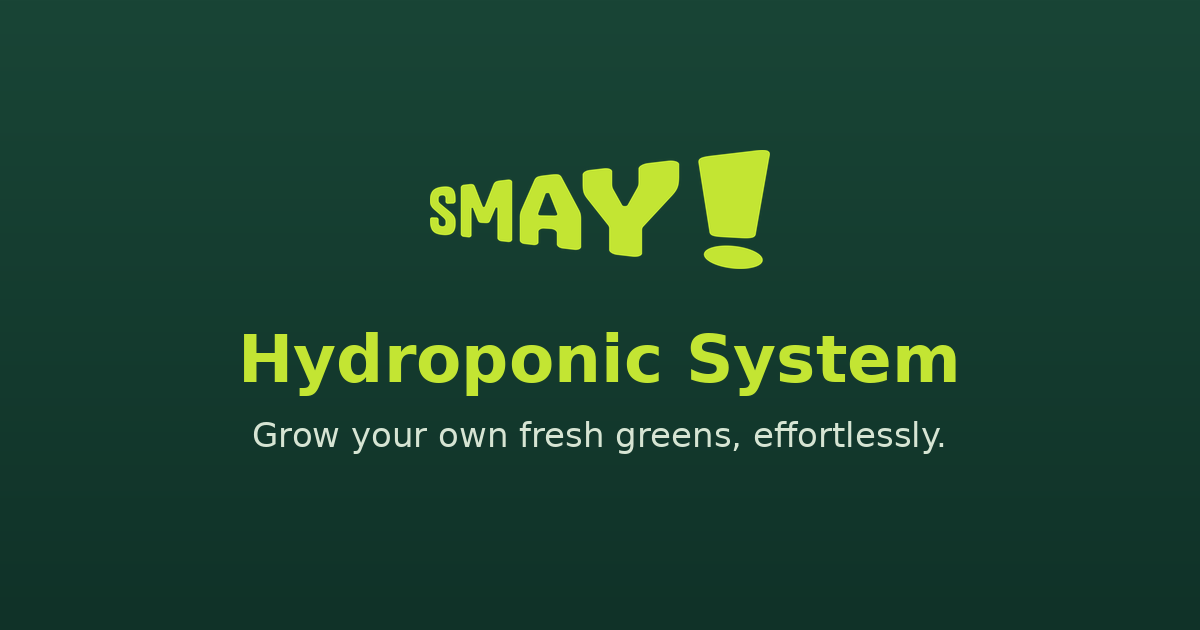
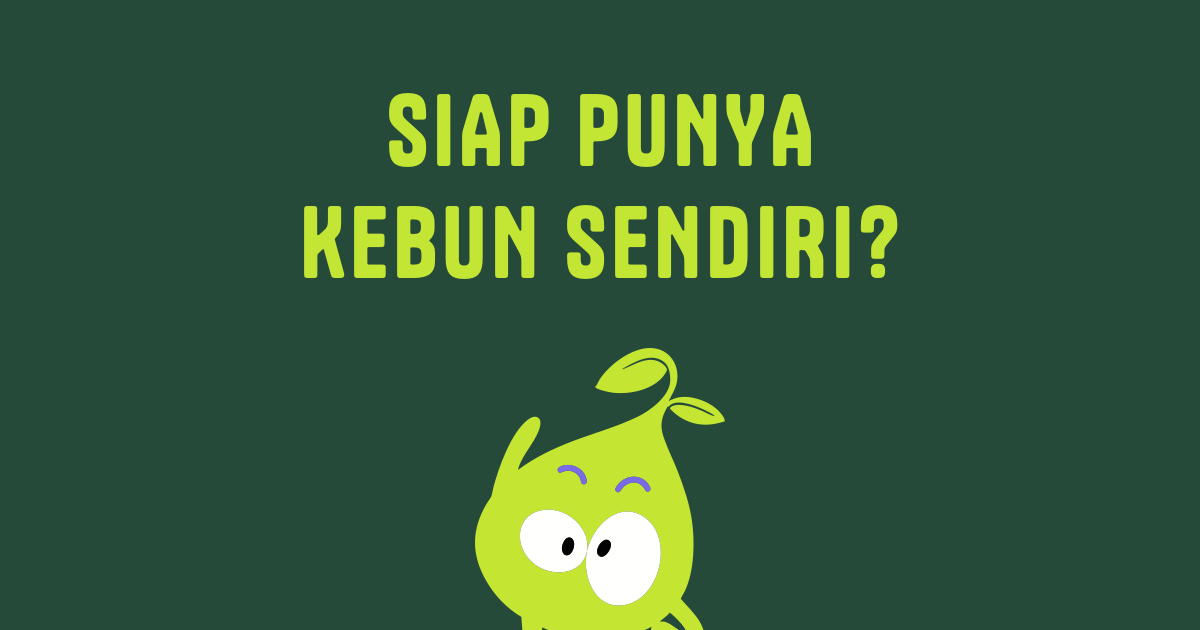
Add files via upload

Changed region(s): [[0.185, 0.5127, 0.8017, 1.0], [0.2467, 0.1508, 0.7708, 0.4524]]

diff --git a/app/layout.js b/app/layout.js
@@ -1,8 +1,8 @@
 import "./globals.css";
 import { Analytics } from "@vercel/analytics/react";
 
-const TITLE = "SMAY! Hydroponic System";
-const DESC = "Grow your own fresh greens, effortlessly. Sistem hidroponik siap pasang, dibimbing sampai panen.";
+const TITLE = "Siap Punya Kebun Sendiri? - SMAY!";
+const DESC = "Lihat breakdown biaya bikin sistem hidroponik 72 lubang, dan kenapa Smay bikin semuanya jadi lebih gampang.";
 
 export const metadata = {
   title: TITLE,
@@ -21,7 +21,6 @@ export const metadata = {
     description: DESC,
     images: ["/og-image.png"],
   },
-  icons: { icon: "/og-image.png" },
 };
 
 export const viewport = {